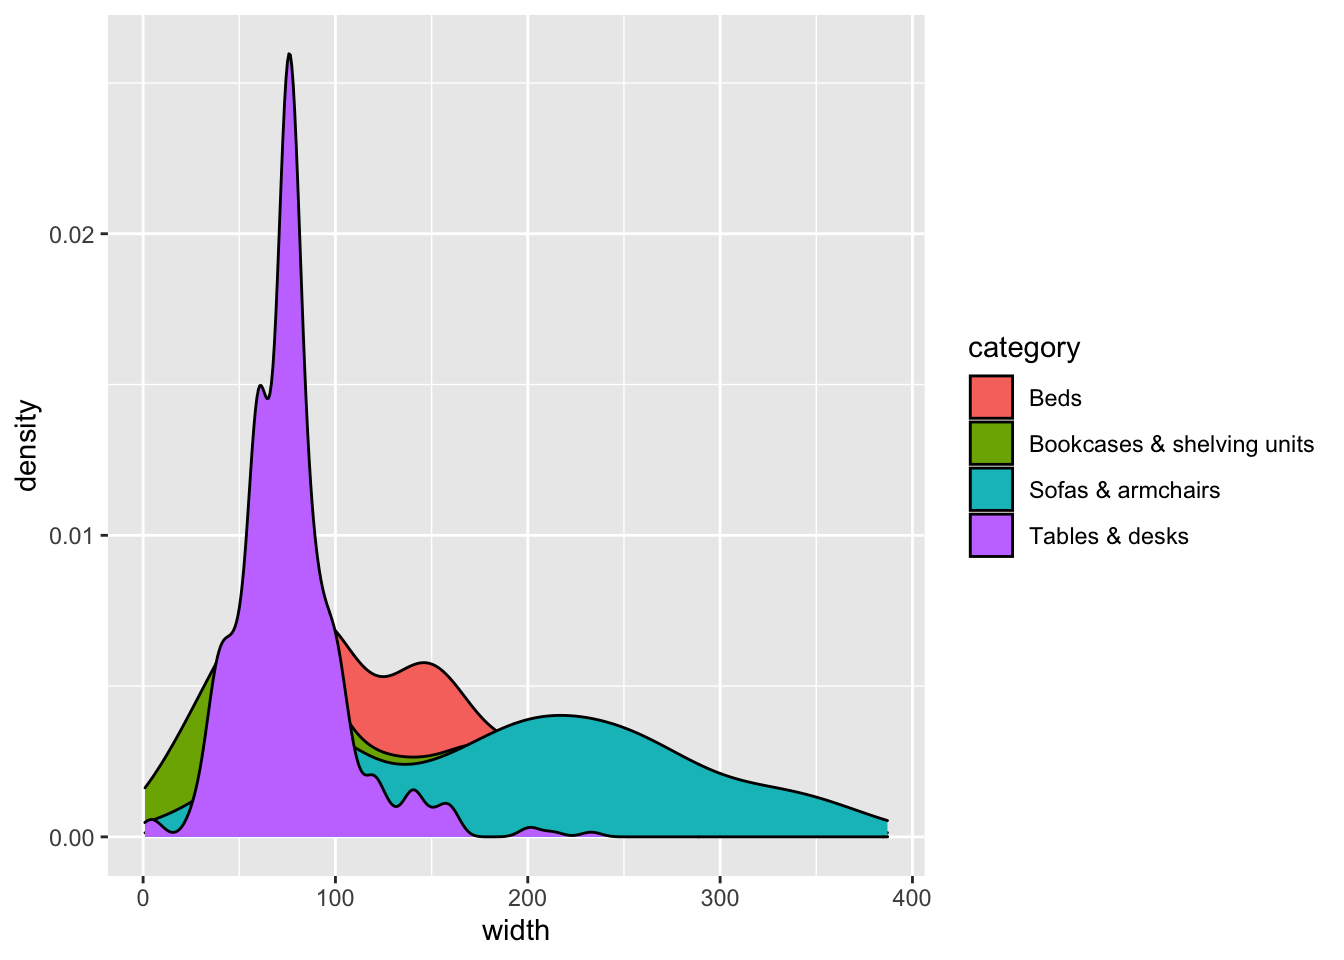
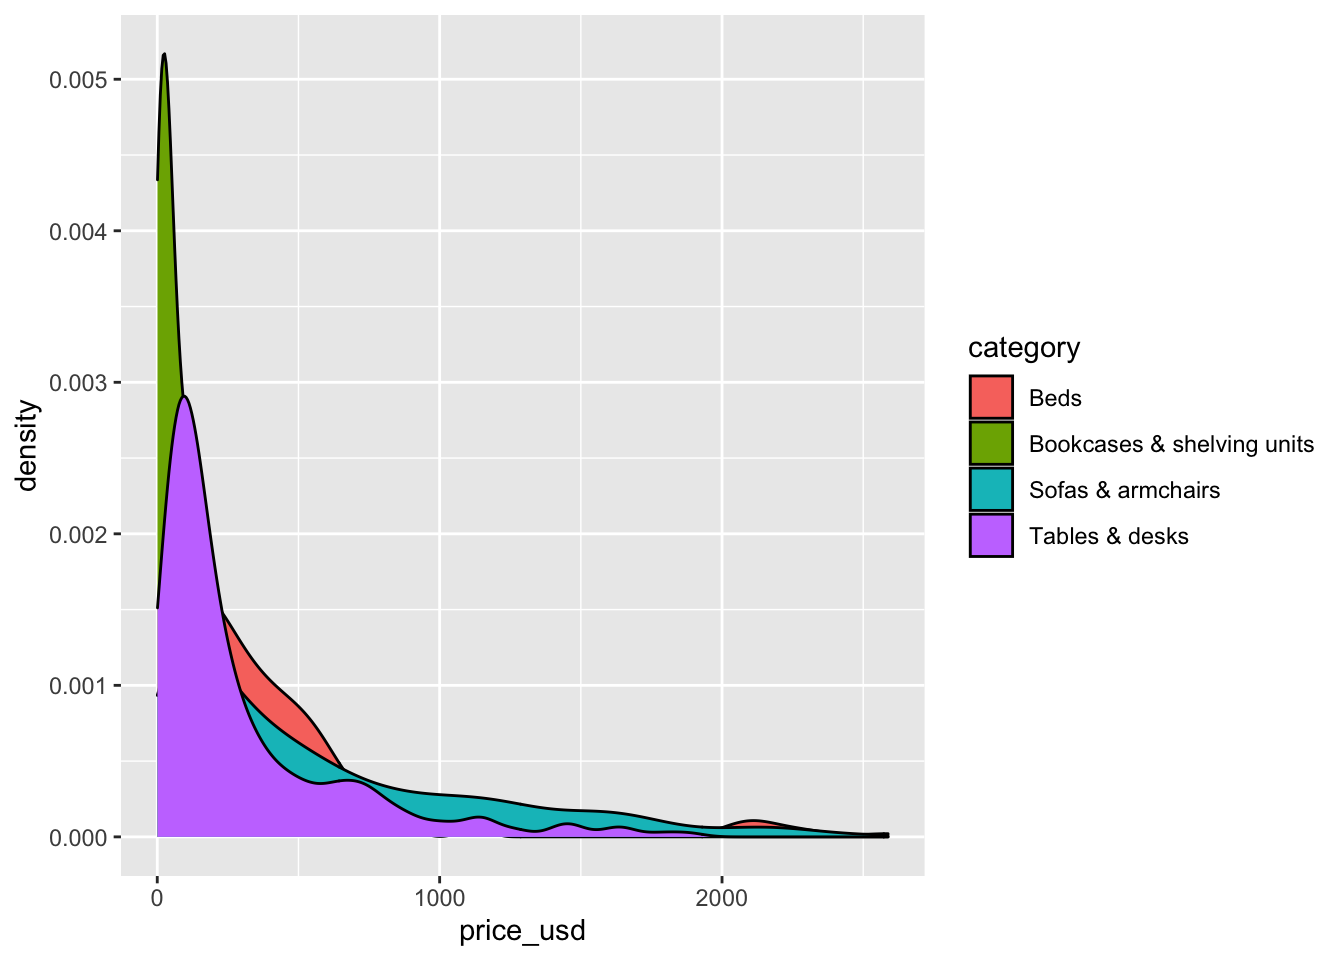
fix graph

diff --git a/_site/labs/lab-01.html b/_site/labs/lab-01.html
@@ -656,7 +656,7 @@ Important
 <li>Another way to visualize numeric data is using density plots. Make a density plot to visualize the distribution of <code>price_usd</code> by category.Let’s make a new visualization with the density curves colored by category, so we can compare the distribution of price for each category.</li>
 </ol>
 <div class="cell">
-<div class="sourceCode cell-code" id="cb14"><pre class="sourceCode r code-with-copy"><code class="sourceCode r"><span id="cb14-1"><a href="#cb14-1" aria-hidden="true" tabindex="-1"></a><span class="fu">ggplot</span>(<span class="at">data =</span> ikea_sub, <span class="fu">aes</span>(<span class="at">x =</span> width, <span class="at">fill =</span> category)) <span class="sc">+</span></span>
+<div class="sourceCode cell-code" id="cb14"><pre class="sourceCode r code-with-copy"><code class="sourceCode r"><span id="cb14-1"><a href="#cb14-1" aria-hidden="true" tabindex="-1"></a><span class="fu">ggplot</span>(<span class="at">data =</span> ikea_sub, <span class="fu">aes</span>(<span class="at">x =</span> price_usd, <span class="at">fill =</span> category)) <span class="sc">+</span></span>
 <span id="cb14-2"><a href="#cb14-2" aria-hidden="true" tabindex="-1"></a>  <span class="fu">geom_density</span>() </span></code><button title="Copy to Clipboard" class="code-copy-button"><i class="bi"></i></button></pre></div>
 <div class="cell-output-display">
 <p><img src="lab-01_files/figure-html/unnamed-chunk-12-1.png" class="img-fluid" width="672"></p>
